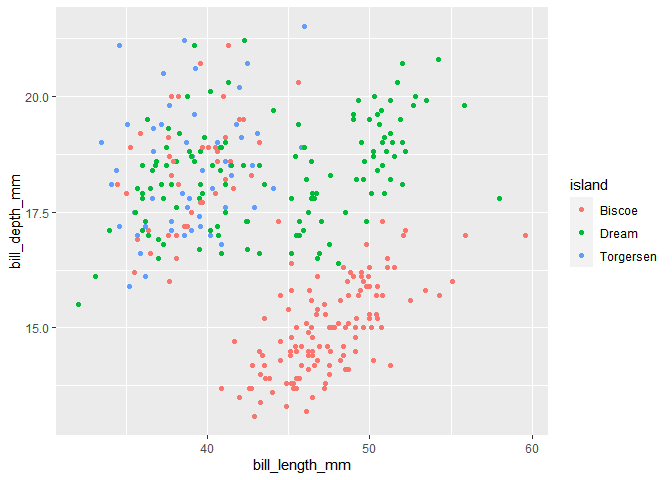
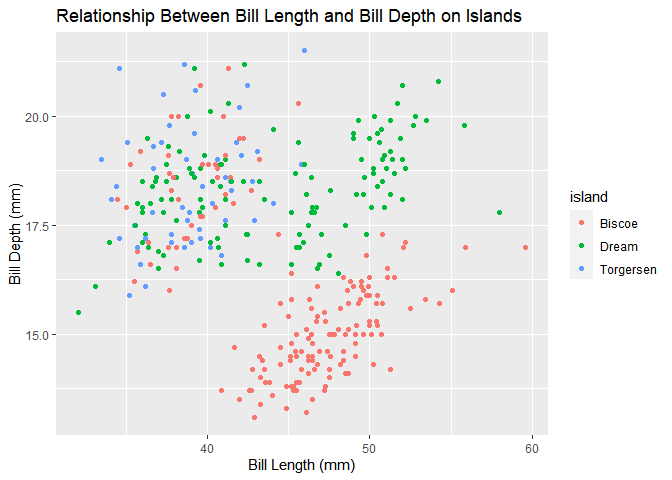
Final Methods Commit

diff --git a/README.md b/README.md
@@ -2,7 +2,7 @@ Relationship Between Size Measurements of Penguins and the Island That
 They Live On
 ================
 Amara Miller
-2021-03-25
+2021-03-30
 
 ## Install Packages and Read Data
 
@@ -76,6 +76,8 @@ correlation.
     et all, 2020).
   - From the two datasets on the website, the penguins data is what was
     used.
+  - There were exact instructions on the palmer penguins website for how
+    to download the package and the correct code to use.
   - The packages of tidyverse and palmerpenguins were then installed and
     the data was read into RStudio (RStudio, 2020), using the readr
     package (Hadley and Jim, 2020).
@@ -84,14 +86,14 @@ correlation.
 
   - The data was renamed to penguins\_data for easier usage and
     manipulation, using the dyplr package in RStudio (Hadley et all,
-    2020)
+    2020).
   - A few graphs were then created for visual aid to look closer and to
-    compare the data from the penguins
+    compare the data from the penguins.
   - Five graphs were created, including four scatterplots and one
-    boxplot using the ggplot2 package in RStudio (H. Wickham, 2016)
+    boxplot using the ggplot2 package in RStudio (H. Wickham, 2016).
   - From there it is simple to visualize some trends in the graph and
     compare the size measurements of penguins and what island they live
-    on
+    on.
 
 ## Results
 
@@ -100,7 +102,10 @@ between bill depth and bill length within the three islands.
 
 ``` r
 length_and_depth <- ggplot(data = penguins) +
-  geom_point(mapping = aes(x = bill_length_mm, y = bill_depth_mm, color = island))
+  geom_point(mapping = aes(x = bill_length_mm, y = bill_depth_mm, color = island)) +
+  labs(title = "Relationship Between Bill Length and Bill Depth on Islands",
+       x = "Bill Length (mm)",
+       y = "Bill Depth (mm)")
 length_and_depth
 ```
 
@@ -134,7 +139,10 @@ body mass of the penguins and what island they lived on.
 
 ``` r
 flipper_and_mass <- ggplot(data = penguins) +
-  geom_point(mapping = aes(x = flipper_length_mm, y = body_mass_g, color = island))
+  geom_point(mapping = aes(x = flipper_length_mm, y = body_mass_g, color = island)) +
+  labs(title = "Relationship Between Flipper Length and Body Mass on Islands",
+     x = "Bill Length (mm)",
+     y = "Body Mass (g)")
 flipper_and_mass
 ```
 
@@ -168,7 +176,7 @@ boxplot, which showed that the island of Biscoe had penguins with the
 longest flipper length.
 
 ``` r
-flipper_boxplot <- ggplot(penguins, aes(x=island, y=flipper_length_mm, color = island)) +
+flipper_boxplot <- ggplot(penguins, aes(x=island, y=flipper_length_mm, fill=island)) + 
   geom_boxplot(notch=FALSE, outlier.colour="cadetblue3", outlier.shape=8,
                outlier.size=4)
 flipper_boxplot
